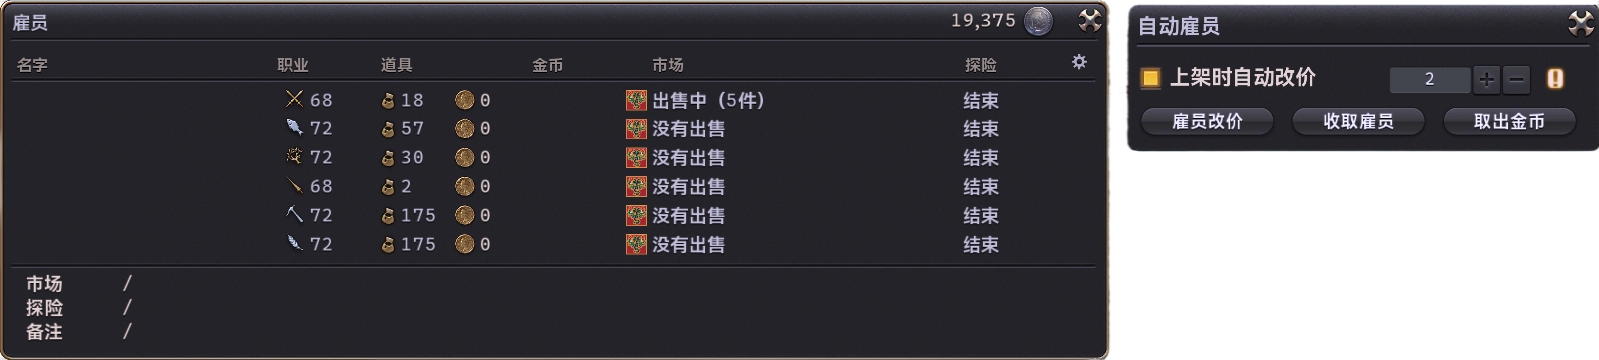
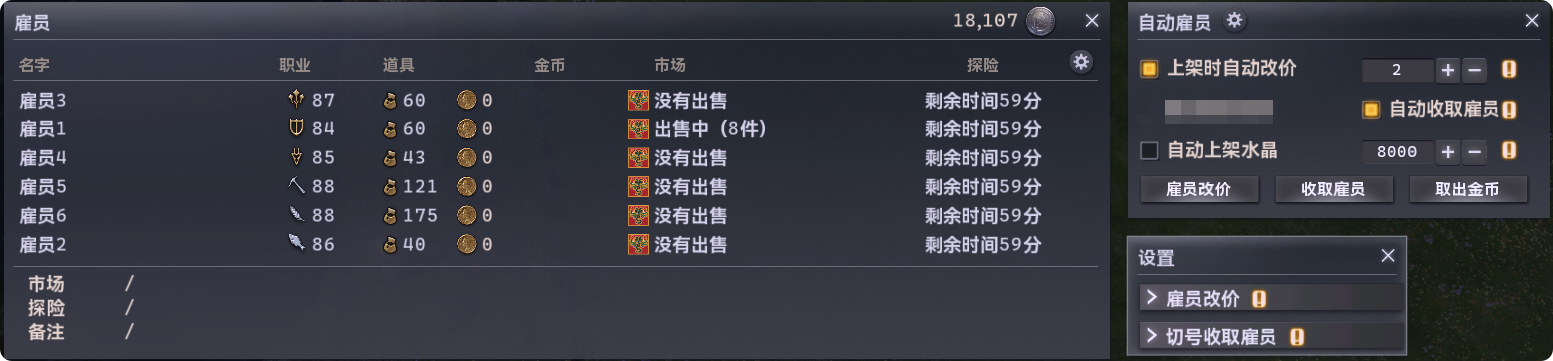
预览图

diff --git a/KamiToolKit/Extensions/NativeNodeDetach.cs b/KamiToolKit/Extensions/NativeNodeDetach.cs
@@ -1,0 +1,53 @@
+using FFXIVClientStructs.FFXIV.Component.GUI;
+using KamiToolKit;
+
+namespace OmniToolbox.UI;
+
+internal static unsafe class NativeNodeDetach
+{
+    // KamiToolKit 拆挂非首子节点时不会减少非组件父节点的 ChildCount，累积后游戏会按错误计数遍历节点链表。
+    public static bool DetachAndDispose(NodeBase? node)
+    {
+        if (node is null)
+        {
+            return false;
+        }
+
+        AtkResNode* nativeNode = node;
+        if (nativeNode != null)
+        {
+            // 碰撞管理器缓存的悬停节点不会在节点释放时自动清除，先清掉避免同帧读到已释放节点。
+            var collisionManager = AtkStage.Instance()->AtkCollisionManager;
+            if (collisionManager != null &&
+                (AtkResNode*)collisionManager->IntersectingCollisionNode == nativeNode)
+            {
+                collisionManager->IntersectingCollisionNode = null;
+                collisionManager->IntersectingAddon = null;
+            }
+
+            var parent = nativeNode->ParentNode;
+            if (parent != null &&
+                parent->GetNodeType() is not NodeType.Component &&
+                parent->ChildNode != nativeNode &&
+                parent->ChildCount > 0)
+            {
+                parent->ChildCount--;
+            }
+        }
+
+        node.Dispose();
+        return nativeNode != null;
+    }
+
+    // KamiToolKit 的列表更新排队到下一帧，拆卸后同一帧的 RequestedUpdate 仍会遍历到已释放的碰撞节点，这里同步重建。
+    public static void UpdateNodeLists(AtkUnitBase* addon)
+    {
+        if (addon == null)
+        {
+            return;
+        }
+
+        addon->UldManager.UpdateDrawNodeList();
+        addon->UpdateCollisionNodeList(false);
+    }
+}

diff --git a/Runtime/Services/DalamudServices.cs b/Runtime/Services/DalamudServices.cs
@@ -7,6 +7,12 @@ namespace OmniToolbox.Host;
 
 public sealed class DalamudServices
 {
+    private static volatile bool isUnloading;
+
+    public static bool IsUnloading => isUnloading;
+
+    public static void BeginUnload() => isUnloading = true;
+
     [PluginService]
     public static IDalamudPluginInterface PluginInterface { get; private set; } = null!;
 
@@ -40,6 +46,9 @@ public sealed class DalamudServices
     [PluginService]
     public static IUnlockState UnlockState { get; private set; } = null!;
 
-    public static void Initialize(IDalamudPluginInterface pluginInterface) =>
+    public static void Initialize(IDalamudPluginInterface pluginInterface)
+    {
+        isUnloading = false;
         pluginInterface.Create<DalamudServices>();
+    }
 }
